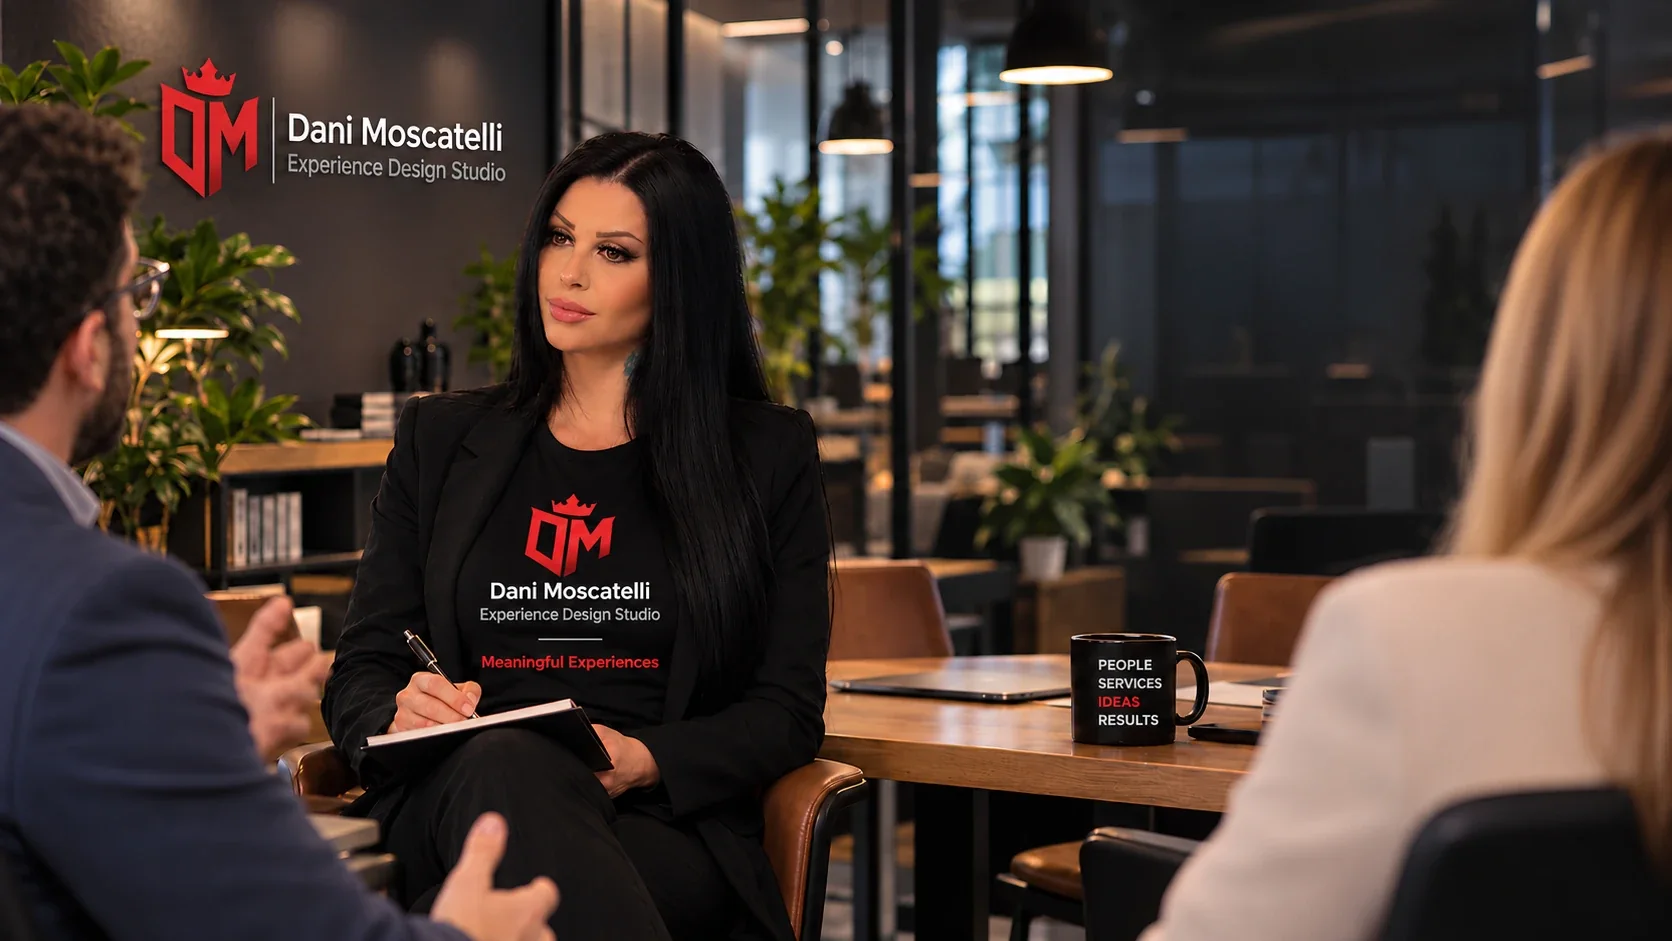
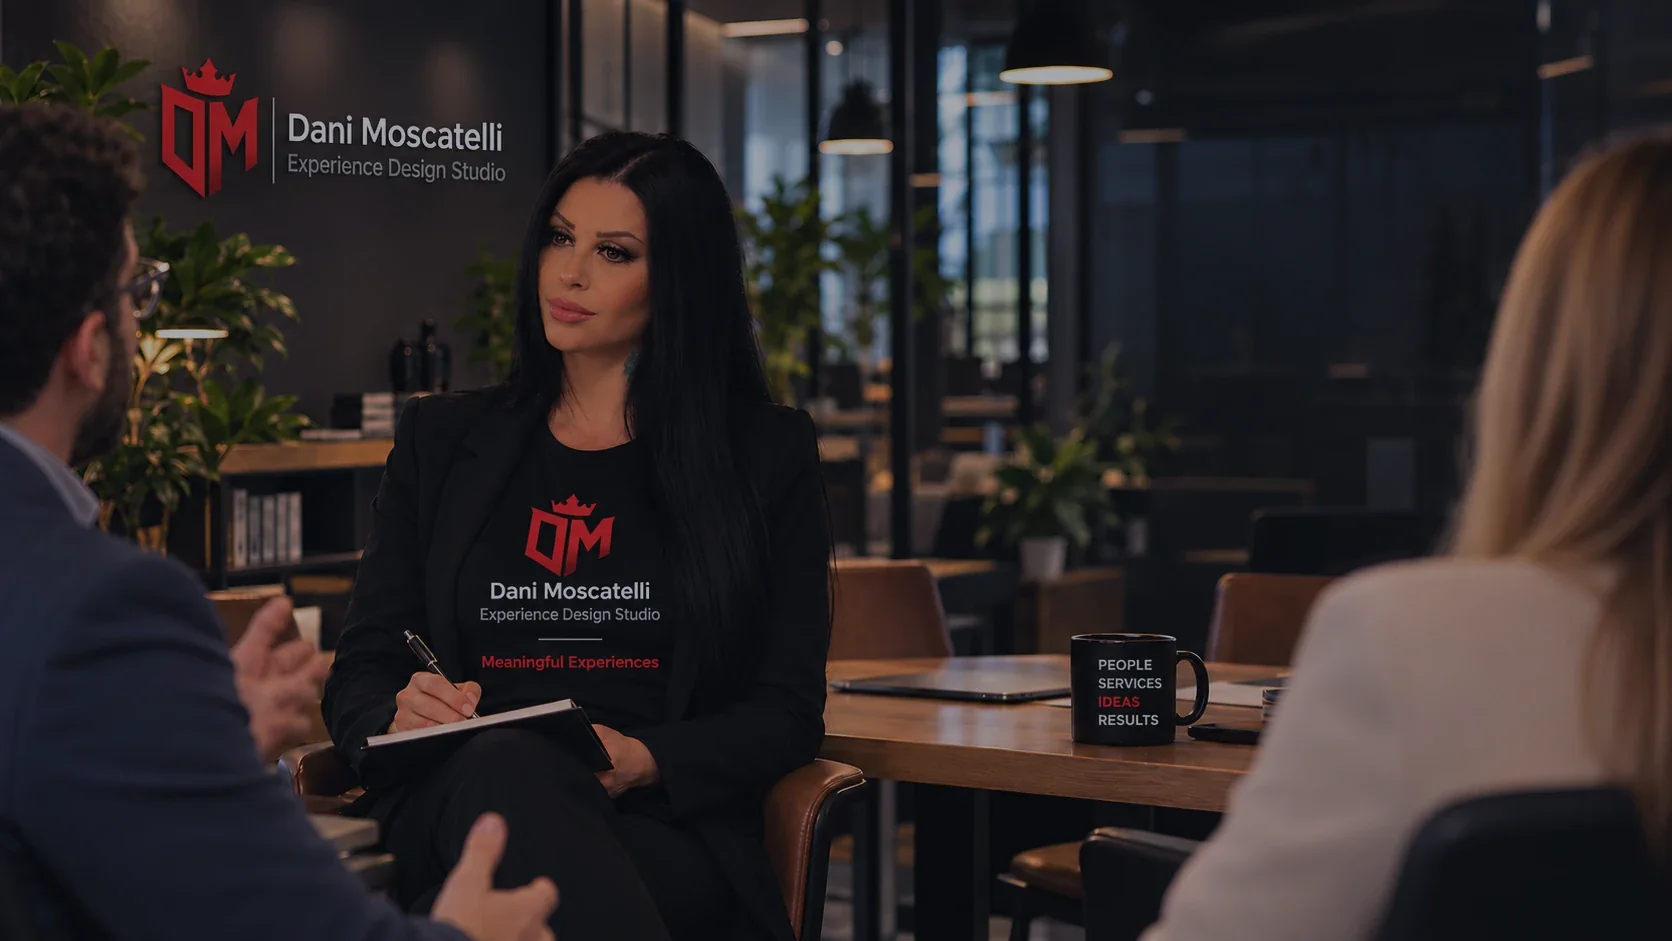
Projeto Piloto: nova foto do hero, transição difusa e citação (#88)
- Nova foto do hero (já escurecida), sem transparência extra
- Transição difusa entre Como funciona e Guia completo
- Frase de equilíbrio como citação fora do card, em Plus Jakarta itálico

Claude-Session: https://claude.ai/code/session_01XRPixHnGB2MQpUnvzRpAUm

diff --git a/projeto-piloto/index.html b/projeto-piloto/index.html
@@ -17,7 +17,7 @@
 <link rel="icon" type="image/png" href="/favicon.png">
 <link rel="preconnect" href="https://fonts.googleapis.com">
 <link rel="preconnect" href="https://fonts.gstatic.com" crossorigin>
-<link href="https://fonts.googleapis.com/css2?family=Plus+Jakarta+Sans:ital,wght@0,300;0,400;0,500;0,600;0,700;0,800;1,400&display=swap" rel="stylesheet">
+<link href="https://fonts.googleapis.com/css2?family=Plus+Jakarta+Sans:ital,wght@0,300;0,400;0,500;0,600;0,700;0,800;1,400;1,700&display=swap" rel="stylesheet">
 <script type="module" src="/src/projeto-piloto.ts"></script>
 <script src="/analytics.js" defer></script>
 <script src="/whatsapp.js" defer></script>
@@ -29,7 +29,7 @@
 
 <main id="conteudo">
 <section class="hero-piloto relative flex items-center pt-8 lg:pt-6 pb-[104px] overflow-hidden" id="hero" aria-labelledby="hero-titulo">
-  <div class="absolute inset-0 -z-10 overflow-hidden bg-[#131A27]" id="hero-fundo"><img alt="Dani Moscatelli em reunião com clientes no escritório do Dani Moscatelli Experience Design Studio" class="opacity-40 w-full h-full object-cover object-[35%_center] lg:object-[28%_center]" src="/projeto-piloto-hero.webp" srcset="/projeto-piloto-hero-960.webp 960w, /projeto-piloto-hero.webp 1600w" sizes="100vw" width="1600" height="900" fetchpriority="high"></div>
+  <div class="absolute inset-0 -z-10 overflow-hidden bg-[#131A27]" id="hero-fundo"><img alt="Dani Moscatelli em reunião com clientes no escritório do Dani Moscatelli Experience Design Studio" class="w-full h-full object-cover object-[35%_center] lg:object-[28%_center]" src="/projeto-piloto-hero.webp" srcset="/projeto-piloto-hero-960.webp 960w, /projeto-piloto-hero.webp 1600w" sizes="100vw" width="1600" height="900" fetchpriority="high"></div>
   <div class="w-full max-w-7xl mx-auto px-4 sm:px-6 lg:px-8 py-4 lg:py-0 relative z-10 flex justify-end items-center">
     <div class="hero-card w-full bg-white/95 backdrop-blur-md rounded-3xl p-8 sm:py-12 sm:px-9 shadow-2xl border border-white/60 text-left flex flex-col items-start justify-center min-h-[580px] max-w-[528px]">
       <p class="inline-flex items-center gap-2 px-3.5 py-1.5 rounded-full bg-coral-50 border border-coral-100 text-coral-600 text-xs font-semibold tracking-wide mb-4"><span aria-hidden="true" class="w-2 h-2 rounded-full bg-coral-600 motion-safe:animate-pulse"></span>PROGRAMA CONTÍNUO</p>
@@ -76,10 +76,8 @@
           <p class="self-end mt-3 pt-6 border-t border-[rgba(19,26,39,0.09)] text-sm text-slate-600 leading-relaxed"><strong class="text-slate-900">Compromisso do Studio:</strong> dedicação especializada, rigor metodológico e confidencialidade.</p>
         </div>
       </div>
-      <div class="px-7 sm:px-10 lg:px-12 py-6 border-t border-[rgba(19,26,39,0.09)] bg-white">
-        <p class="text-base sm:text-lg font-extrabold text-slate-900 tracking-tight leading-snug text-center">Sua empresa ganha <span class="text-coral-600">clareza para evoluir</span>. O Studio amplia seu repertório para <span class="text-coral-600">transformar experiências</span>.</p>
-      </div>
     </article>
+    <figure class="citacao-equilibrio mt-10 sm:mt-14"><span class="citacao-aspas" aria-hidden="true">“</span><blockquote><p>Sua empresa ganha <span class="text-coral-600">clareza para evoluir</span>. O Studio amplia seu repertório para <span class="text-coral-600">transformar experiências</span>.</p></blockquote></figure>
   </div>
 </div></section>
 <section class="transicao transicao-escopo secao-escura relative overflow-hidden pt-16 sm:pt-24 pb-24 sm:pb-36" id="atuacao" aria-labelledby="atuacao-titulo"><svg aria-hidden="true" class="curva-secao absolute left-0 bottom-0 w-full h-12 sm:h-20 lg:h-24 pointer-events-none z-[2]" viewBox="0 0 1440 96" preserveAspectRatio="none"><path fill="#EDF0F5" d="M0 96H1440V72C1080 0 360 0 0 72Z"/></svg><div aria-hidden="true" class="fundo-gradiente fundo-gradiente-escuro"><span></span><span></span><span></span></div><div class="relative max-w-7xl mx-auto px-4 sm:px-6 lg:px-8">

diff --git a/src/projeto-piloto.css b/src/projeto-piloto.css
@@ -161,7 +161,7 @@ html { scroll-padding-top: var(--altura-cabecalho, 96px); }
 .transicao-sobre  { background: #FFFFFF; }
 .transicao-escopo { background: #131A27; }
 .transicao-como   { background: #EDF0F5; }
-.transicao-guia   { background: #FFFFFF; }
+.transicao-guia   { background: linear-gradient(to bottom, #EDF0F5 0, #FFFFFF 240px); } /* transição difusa vinda do Como funciona (G-50) */
 .transicao-form   { background: #EDF0F5; }
 /* Brilhos da seção escura começam um pouco abaixo do topo, para a transição vinda do Escopo não marcar uma linha */
 .transicao-escopo.secao-escura::after { top: -60px; opacity: .8; }
@@ -251,3 +251,11 @@ main section h2 .text-coral-600, main section h2 span.text-coral-600 { color: #D
 @media (prefers-reduced-motion: reduce) { .cta-flutuante { transition: none; } }
 /* Celular: o botão ocupa toda a largura livre, da margem esquerda até o WhatsApp */
 @media (max-width: 639px) { .cta-flutuante { left: 20px; right: 88px; } }
+
+/* ---------- Citação de fechamento do bloco "Para sua empresa / Para o Studio" ----------
+   Toda em Plus Jakarta itálico; palavras de destaque em vermelho. */
+.citacao-equilibrio { position: relative; max-width: 46rem; margin-left: auto; margin-right: auto; padding: .75rem 0 .25rem; text-align: center; }
+.citacao-aspas { display: block; font-style: italic; font-weight: 700; font-size: 4rem; line-height: .6; height: 1.75rem; color: #B82828; }
+.citacao-equilibrio blockquote { margin: 0; }
+.citacao-equilibrio blockquote p { font-style: italic; font-weight: 700; font-size: 1.25rem; line-height: 1.5; letter-spacing: -0.01em; color: #131A27; }
+@media (min-width: 640px) { .citacao-equilibrio blockquote p { font-size: 1.5rem; } }
